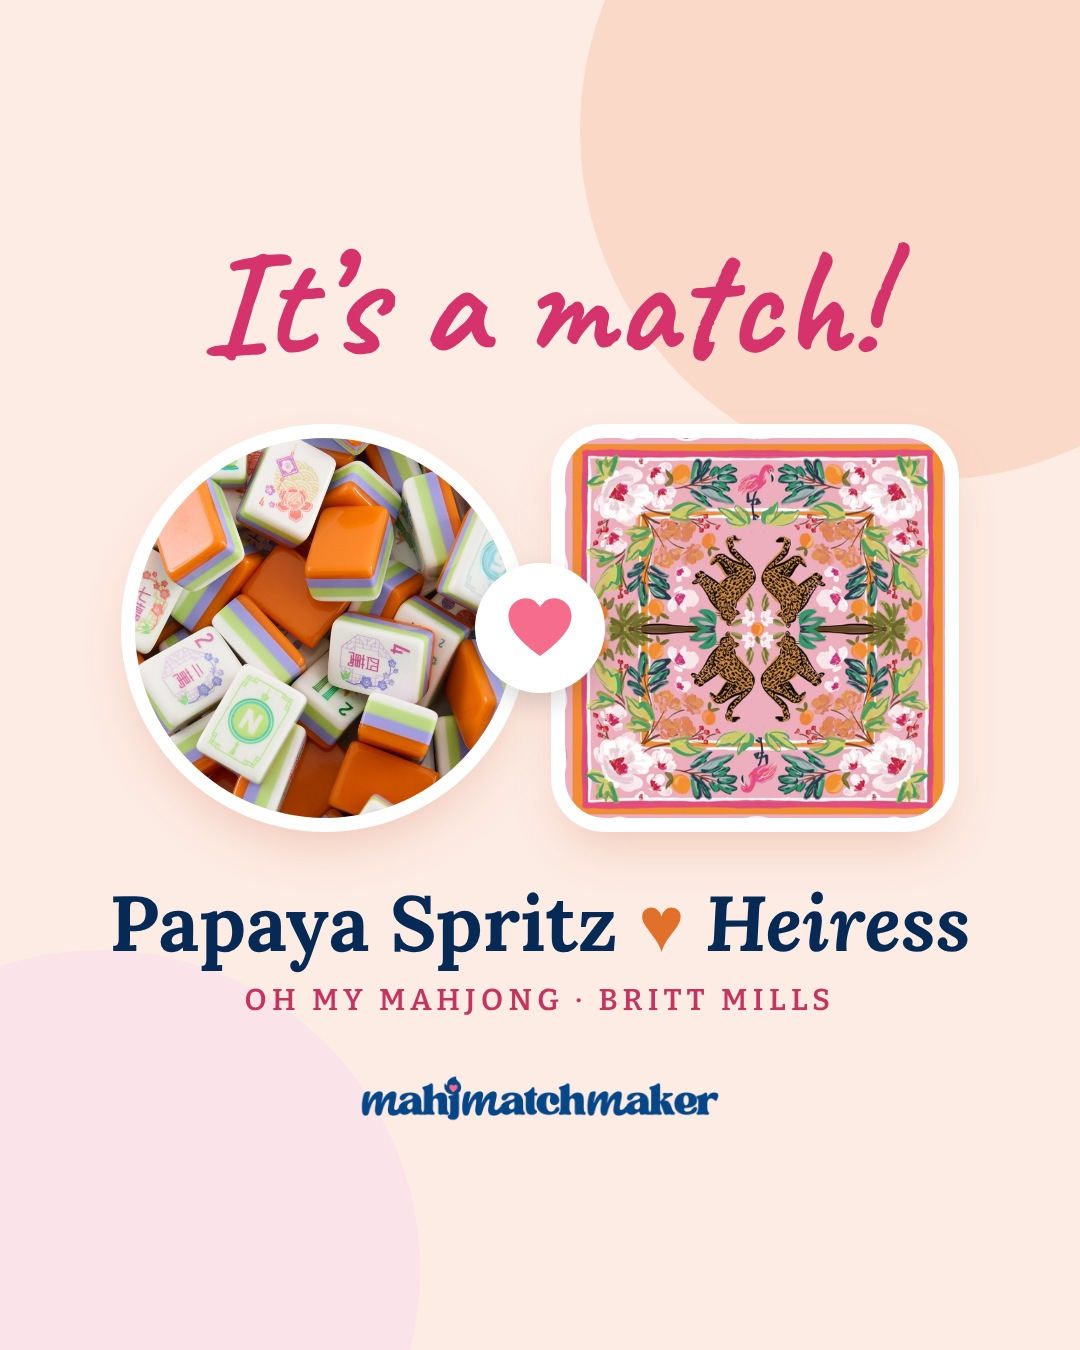
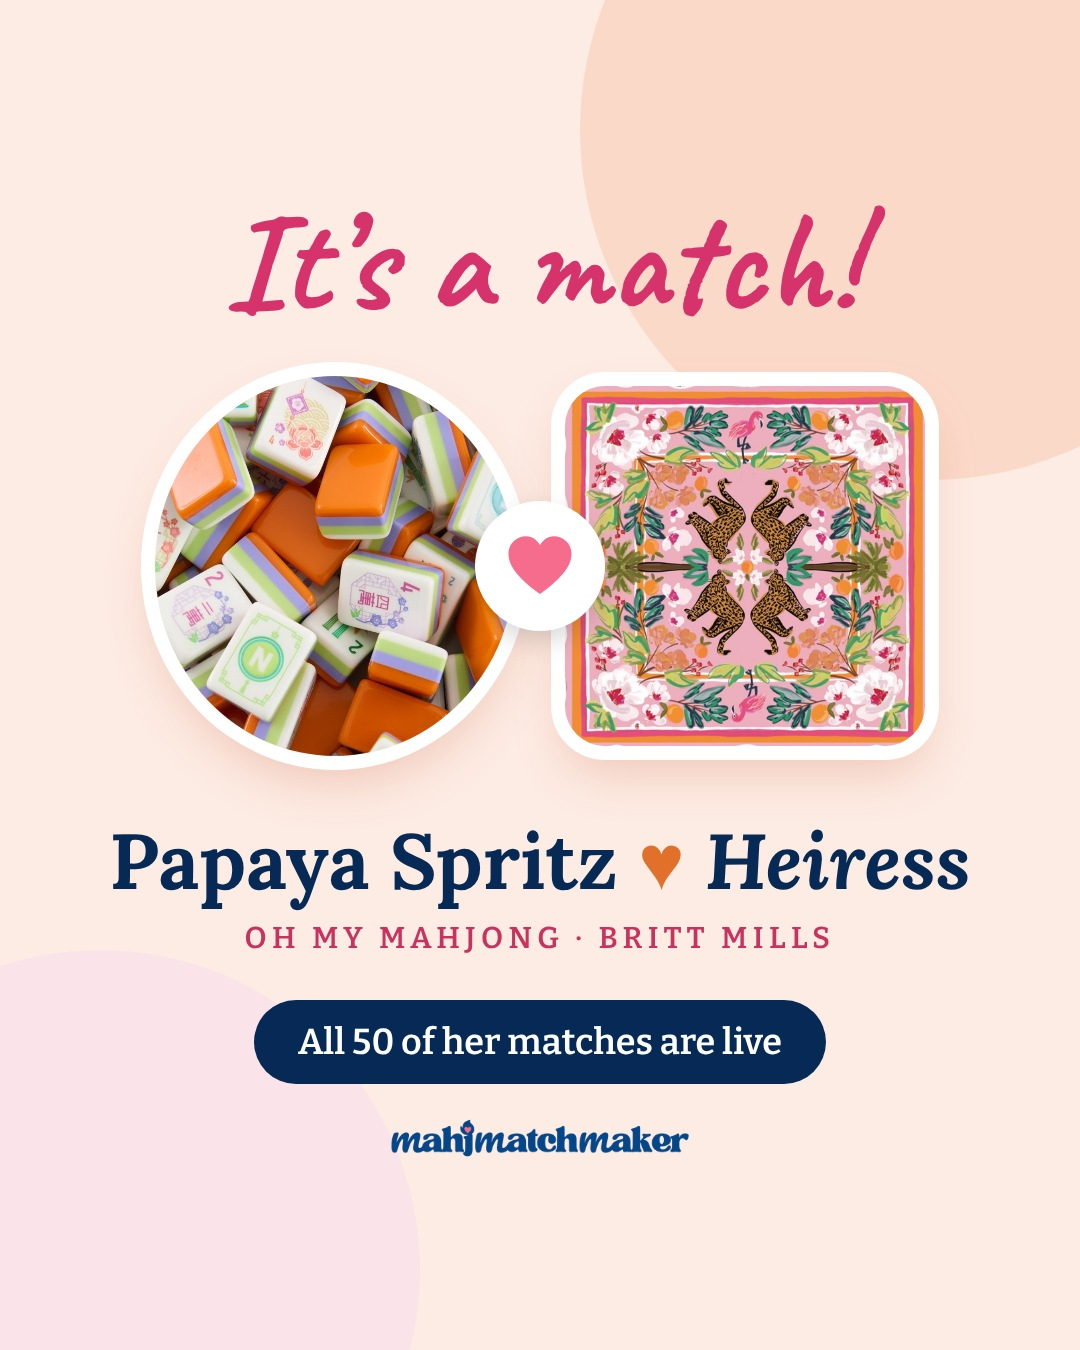
Papaya intro post + countdown frame now push live matches
Claude-Session: https://claude.ai/code/session_014aKoC1ZMdZPjGkZ9kHhnLk

diff --git a/scripts/social/feedmock/match_tile.html b/scripts/social/feedmock/match_tile.html
@@ -7,13 +7,14 @@
 </style></head><body><div style="position:relative;width:1080px;height:1350px;background:#fdece4;display:flex;flex-direction:column;align-items:center;justify-content:center;overflow:hidden">
 <div style="position:absolute;right:-200px;top:-220px;width:700px;height:700px;border-radius:50%;background:#fbd9c9"></div>
 <div style="position:absolute;left:-220px;bottom:-240px;width:640px;height:640px;border-radius:50%;background:#fbe3ea"></div>
-<div style="position:relative;font-family:Hand;font-size:150px;color:#d6336c;line-height:1">It&rsquo;s a match!</div>
-<div style="position:relative;display:flex;align-items:center;margin-top:60px">
-  <div style="width:380px;height:380px;border-radius:50%;background:url(file:///home/claude/mahjmatchmaker-data/assets/tiles/album/papaya-spritz.jpg) center/cover;box-shadow:0 0 0 14px #fff,0 24px 50px rgba(200,80,40,.25)"></div>
+<div style="position:relative;font-family:Hand;font-size:140px;color:#d6336c;line-height:1">It&rsquo;s a match!</div>
+<div style="position:relative;display:flex;align-items:center;margin-top:44px">
+  <div style="width:360px;height:380px;border-radius:50%;background:url(file:///home/claude/mahjmatchmaker-data/assets/tiles/album/papaya-spritz.jpg) center/cover;box-shadow:0 0 0 14px #fff,0 24px 50px rgba(200,80,40,.25)"></div>
   <div style="position:relative;z-index:2;margin:0 -40px;width:130px;height:130px;border-radius:50%;background:#fff;display:flex;align-items:center;justify-content:center;box-shadow:0 10px 26px rgba(0,0,0,.15)"><svg viewBox="0 0 48 48" width="84" height="84"><path d="M24 40 C10 30 6 23 6 17 C6 11 11 7 16 7 C20 7 22 9 24 12 C26 9 28 7 32 7 C37 7 42 11 42 17 C42 23 38 30 24 40 Z" fill="#f56c8c"/></svg></div>
-  <div style="width:380px;height:380px;border-radius:40px;background:url(file:///home/claude/mahjmatchmaker-data/assets/colorcards/papaya-spritz/mats/heiress-britt-mills.jpg) center/cover;box-shadow:0 0 0 14px #fff,0 24px 50px rgba(200,80,40,.25)"></div>
+  <div style="width:360px;height:360px;border-radius:40px;background:url(file:///home/claude/mahjmatchmaker-data/assets/colorcards/papaya-spritz/mats/heiress-britt-mills.jpg) center/cover;box-shadow:0 0 0 14px #fff,0 24px 50px rgba(200,80,40,.25)"></div>
 </div>
 <div style="position:relative;font-family:Lo;font-weight:700;font-size:78px;color:#062a55;margin-top:64px;line-height:1.05;text-align:center">Papaya Spritz <span style="color:#e0702a">&hearts;</span> <i>Heiress</i></div>
 <div style="position:relative;font:600 30px Bit;letter-spacing:.18em;text-transform:uppercase;color:#c8325f;margin-top:18px">Oh My Mahjong &middot; Britt Mills</div>
-<img src="file:///home/claude/mahjmatchmaker-data/assets/brand/mahjmatchmaker-wordmark-notag.png" style="position:relative;width:360px;margin-top:56px">
+<div style="position:relative;margin-top:44px;background:#062a55;color:#fff;border-radius:999px;padding:20px 44px;font:600 36px Bit">All 50 of her matches are live</div>
+<img src="file:///home/claude/mahjmatchmaker-data/assets/brand/mahjmatchmaker-wordmark-notag.png" style="position:relative;width:300px;margin-top:34px">
 </div></body></html>

diff --git a/scripts/social/feedmock/countdown_frame.html b/scripts/social/feedmock/countdown_frame.html
@@ -5,10 +5,10 @@
 <div style="position:relative;width:1080px;height:1920px;background:#fdece4;overflow:hidden;display:flex;flex-direction:column;align-items:center">
 <div style="position:absolute;right:-220px;top:-200px;width:760px;height:760px;border-radius:50%;background:#fbd9c9"></div>
 <div style="position:absolute;left:-240px;bottom:-200px;width:700px;height:700px;border-radius:50%;background:#fbe3ea"></div>
-<div style="position:relative;margin-top:230px;width:520px;height:520px;border-radius:50%;background:url(file:///home/claude/mahjmatchmaker-data/assets/tiles/album/papaya-spritz.jpg) center/cover;box-shadow:0 0 0 16px #fff,0 30px 60px rgba(200,80,40,.25)"></div>
-<div style="position:relative;font-family:Hand;font-size:96px;color:#d6336c;margin-top:70px">the new girl drops</div>
-<div style="position:relative;font-family:Capra;font-size:130px;color:#e0702a;line-height:1">Wednesday</div>
-<div style="position:relative;font:600 40px Bit;color:#062a55;margin-top:20px;letter-spacing:.06em">10am CT · Oh My Mahjong</div>
-<div style="position:relative;margin-top:60px;width:760px;height:300px;border:5px dashed rgba(6,42,85,.25);border-radius:36px;display:flex;align-items:center;justify-content:center;font:600 30px Bit;color:rgba(6,42,85,.35)">countdown sticker here</div>
-<div style="position:relative;margin-top:60px;background:#062a55;color:#fff;border-radius:999px;padding:24px 50px;font:600 42px Bit">Code MAHJMATCH</div>
+<div style="position:relative;margin-top:170px;width:460px;height:460px;border-radius:50%;background:url(file:///home/claude/mahjmatchmaker-data/assets/tiles/album/papaya-spritz.jpg) center/cover;box-shadow:0 0 0 16px #fff,0 30px 60px rgba(200,80,40,.25)"></div>
+<div style="position:relative;font-family:Hand;font-size:92px;color:#d6336c;margin-top:60px">she drops Wednesday&hellip;</div>
+<div style="position:relative;font-family:Capra;font-size:104px;color:#e0702a;line-height:1.02;text-align:center">her 50 matches<br>are ready now</div>
+<div style="position:relative;font:600 36px Bit;color:#062a55;margin-top:22px;letter-spacing:.04em">shop your mat &amp; racks before 10am CT</div>
+<div style="position:relative;margin-top:44px;width:760px;height:260px;border:5px dashed rgba(6,42,85,.25);border-radius:36px;display:flex;align-items:center;justify-content:center;font:600 30px Bit;color:rgba(6,42,85,.35)">countdown sticker here</div>
+<div style="position:relative;margin-top:30px;width:520px;height:110px;border:4px dashed rgba(6,42,85,.2);border-radius:28px"></div><div style="position:relative;margin-top:24px;background:#062a55;color:#fff;border-radius:999px;padding:22px 46px;font:600 40px Bit">Code MAHJMATCH</div>
 </div></body></html>

diff --git a/scripts/social/feedmock/match_tile.py b/scripts/social/feedmock/match_tile.py
@@ -13,15 +13,16 @@ html=f"""<!doctype html><html><head><meta charset=utf8><style>
 </style></head><body><div style="position:relative;width:1080px;height:1350px;background:#fdece4;display:flex;flex-direction:column;align-items:center;justify-content:center;overflow:hidden">
 <div style="position:absolute;right:-200px;top:-220px;width:700px;height:700px;border-radius:50%;background:#fbd9c9"></div>
 <div style="position:absolute;left:-220px;bottom:-240px;width:640px;height:640px;border-radius:50%;background:#fbe3ea"></div>
-<div style="position:relative;font-family:Hand;font-size:150px;color:#d6336c;line-height:1">It&rsquo;s a match!</div>
-<div style="position:relative;display:flex;align-items:center;margin-top:60px">
-  <div style="width:380px;height:380px;border-radius:50%;background:url({u(TILE)}) center/cover;box-shadow:0 0 0 14px #fff,0 24px 50px rgba(200,80,40,.25)"></div>
+<div style="position:relative;font-family:Hand;font-size:140px;color:#d6336c;line-height:1">It&rsquo;s a match!</div>
+<div style="position:relative;display:flex;align-items:center;margin-top:44px">
+  <div style="width:360px;height:380px;border-radius:50%;background:url({u(TILE)}) center/cover;box-shadow:0 0 0 14px #fff,0 24px 50px rgba(200,80,40,.25)"></div>
   <div style="position:relative;z-index:2;margin:0 -40px;width:130px;height:130px;border-radius:50%;background:#fff;display:flex;align-items:center;justify-content:center;box-shadow:0 10px 26px rgba(0,0,0,.15)">{H.format(w=84,c='#f56c8c')}</div>
-  <div style="width:380px;height:380px;border-radius:40px;background:url({u(MAT)}) center/cover;box-shadow:0 0 0 14px #fff,0 24px 50px rgba(200,80,40,.25)"></div>
+  <div style="width:360px;height:360px;border-radius:40px;background:url({u(MAT)}) center/cover;box-shadow:0 0 0 14px #fff,0 24px 50px rgba(200,80,40,.25)"></div>
 </div>
 <div style="position:relative;font-family:Lo;font-weight:700;font-size:78px;color:#062a55;margin-top:64px;line-height:1.05;text-align:center">Papaya Spritz <span style="color:#e0702a">&hearts;</span> <i>Heiress</i></div>
 <div style="position:relative;font:600 30px Bit;letter-spacing:.18em;text-transform:uppercase;color:#c8325f;margin-top:18px">Oh My Mahjong &middot; Britt Mills</div>
-<img src="{u('assets/brand/mahjmatchmaker-wordmark-notag.png')}" style="position:relative;width:360px;margin-top:56px">
+<div style="position:relative;margin-top:44px;background:#062a55;color:#fff;border-radius:999px;padding:20px 44px;font:600 36px Bit">All 50 of her matches are live</div>
+<img src="{u('assets/brand/mahjmatchmaker-wordmark-notag.png')}" style="position:relative;width:300px;margin-top:34px">
 </div></body></html>"""
 open(R+'/scripts/social/feedmock/match_tile.html','w').write(html)
 async def go():
